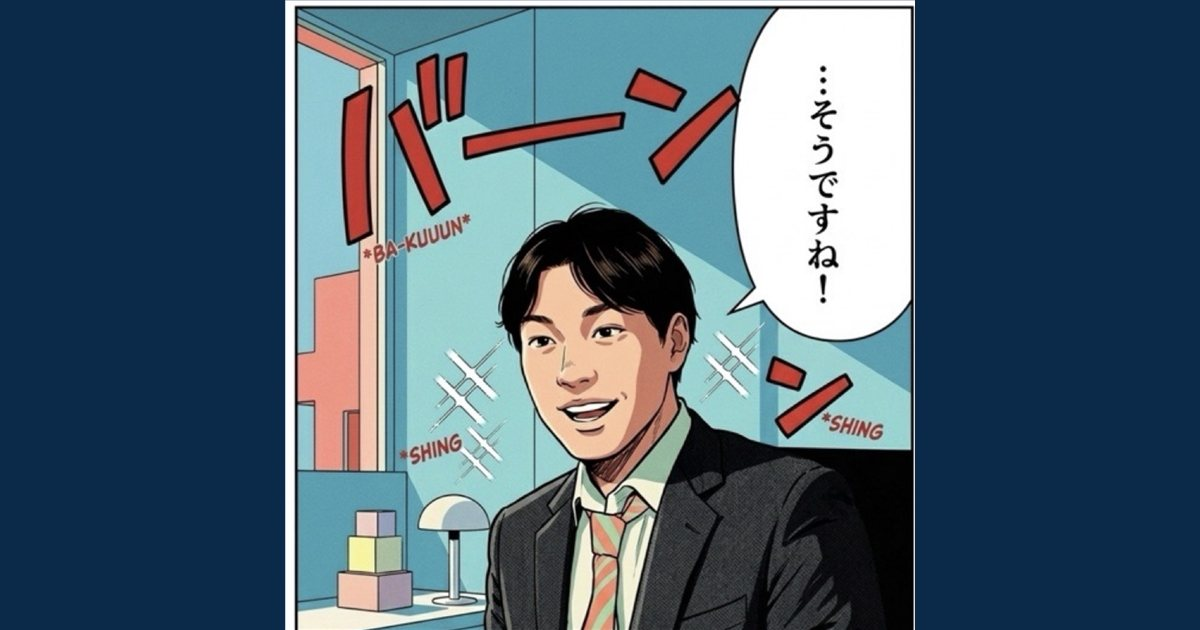
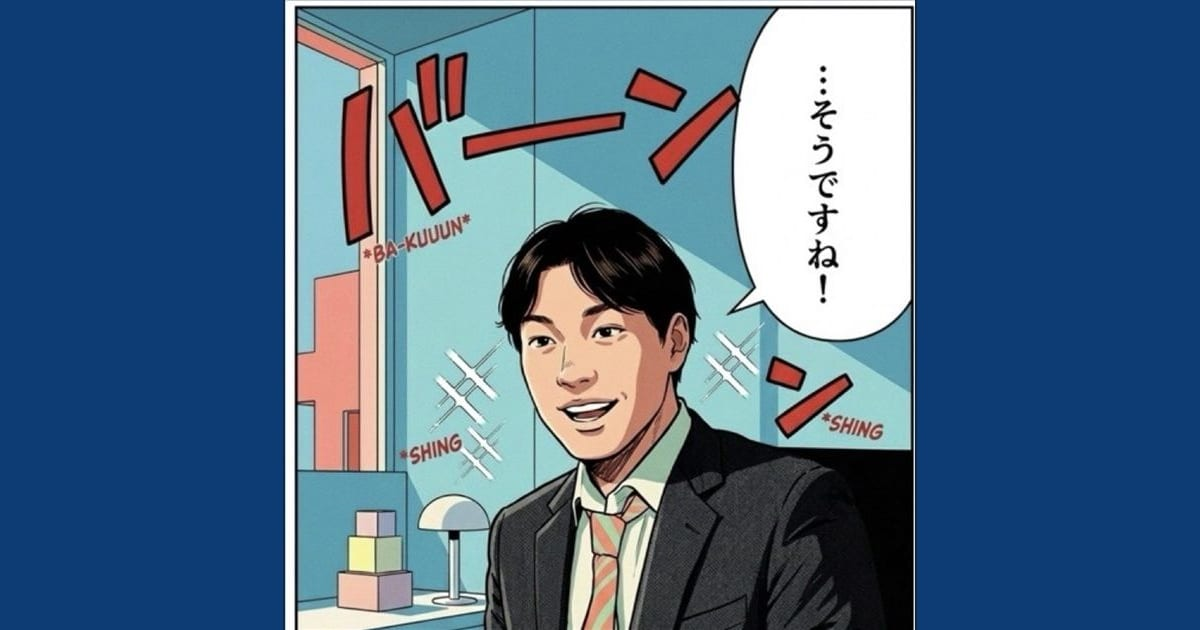
サイトの配色をスカイブルー基調に変更し、全体を明るく
青系の変数（--navy/--blue系/--accent/--ink/--bg）と直書きの青を新パレットに差し替え。
ヒーロー・プロフィール帯・CTA帯・ステータスカードを明るい青のグラデーションに統一し、
青い帯の上で読みにくくなる注釈・マーカー・黄色ラベルの色を調整。
青ボタンはスカイブルー地に濃紺文字に変更。theme-color/manifest/OG画像の余白色も更新。

diff --git a/css/style.css b/css/style.css
@@ -1,23 +1,24 @@
 :root{
-  --navy: #0b2a4a;
-  --blue-deep: #0f3d75;
-  --blue: #1a5fb4;
-  --blue-bright: #2e7dd6;
-  --blue-pale: #eaf2fc;
-  --blue-line: #d7e6f9;
-  --accent: #f2a93b;
-  --accent-deep: #e0891a;
-  --ink: #16232f;
-  --ink-soft: #4a5a6a;
+  --navy: #0d3b73;
+  --blue-deep: #0a56a8;
+  --blue: #0b66c3;
+  --blue-bright: #2f9bff;
+  --blue-pale: #e3f2ff;
+  --blue-line: #c4e2ff;
+  --accent: #ffb02e;
+  --accent-deep: #ec8f10;
+  --ink: #12304d;
+  --ink-soft: #4b5f78;
   --paper: #ffffff;
-  --bg: #f5f8fc;
-  --shadow: 0 12px 30px -14px rgba(15, 61, 117, 0.35);
-  --shadow-sm: 0 4px 14px -6px rgba(15, 61, 117, 0.25);
+  --bg: #f2f9ff;
+  --shadow: 0 12px 30px -14px rgba(13, 59, 115, 0.35);
+  --shadow-sm: 0 4px 14px -6px rgba(13, 59, 115, 0.25);
   --radius-lg: 22px;
   --radius-md: 14px;
   --radius-sm: 8px;
   --serif: "Shippori Mincho", "Noto Serif JP", "Hiragino Mincho ProN", serif;
   --sans: "Zen Kaku Gothic New", "Hiragino Kaku Gothic ProN", "Yu Gothic", sans-serif;
+  --sky-grad: linear-gradient(160deg, #2a86e6 0%, #1566bf 50%, #0d4a94 100%);
   --pop: "M PLUS Rounded 1c", "Zen Kaku Gothic New", sans-serif;
 }
 
@@ -93,7 +94,7 @@ a{color:inherit;text-decoration:none;}
   color:#fff;
   overflow:hidden;
   padding:64px 24px;
-  background-color:#3a2410;
+  background-color:var(--navy);
 }
 /* 料理写真そのもの。PCでは.heroの背面に全面表示、モバイルでは上部の独立エリアに切り替える */
 .hero-photo{
@@ -132,10 +133,10 @@ a{color:inherit;text-decoration:none;}
   padding:36px 32px;
   display:grid;
   gap:22px;
-  background:linear-gradient(135deg, rgba(255,138,46,0.32) 0%, rgba(11,42,74,0.58) 55%, rgba(8,16,28,0.62) 100%);
+  background:linear-gradient(135deg, rgba(47,155,255,0.34) 0%, rgba(13,59,115,0.60) 55%, rgba(8,28,56,0.66) 100%);
   backdrop-filter:blur(14px) saturate(140%);
   -webkit-backdrop-filter:blur(14px) saturate(140%);
-  border:1px solid rgba(255,205,140,0.22);
+  border:1px solid rgba(190,225,255,0.30);
   border-radius:28px;
   box-shadow:0 24px 60px -24px rgba(0,0,0,0.6);
 }
@@ -167,15 +168,15 @@ a{color:inherit;text-decoration:none;}
     border-radius:0;
     border:none;
     box-shadow:none;
-    background:linear-gradient(165deg, #c9660f 0%, var(--navy) 48%, var(--blue-deep) 100%);
+    background:linear-gradient(165deg, #1f78db 0%, #0d56a8 52%, var(--navy) 100%);
     backdrop-filter:none;
     -webkit-backdrop-filter:none;
   }
 }
 .hero-badge{
   display:inline-flex;align-items:center;gap:8px;
-  background:linear-gradient(120deg, rgba(255,255,255,0.24), rgba(255,190,110,0.16));
-  border:1px solid rgba(255,215,150,0.35);
+  background:linear-gradient(120deg, rgba(255,255,255,0.24), rgba(150,210,255,0.18));
+  border:1px solid rgba(200,230,255,0.40);
   padding:7px 16px;border-radius:999px;
   font-size:12.5px;letter-spacing:.04em;font-weight:600;
   width:fit-content;
@@ -191,8 +192,8 @@ a{color:inherit;text-decoration:none;}
   letter-spacing:.01em;
 }
 .hero h1 .accent{
-  color:#ffb238;
-  text-shadow:0 2px 14px rgba(255,140,40,0.65), 0 0 2px rgba(255,255,255,0.4);
+  color:#ffd45a;
+  text-shadow:0 2px 12px rgba(0,40,90,0.55), 0 0 2px rgba(255,255,255,0.4);
 }
 
 /* サイトを開いたら／スワイプ・ホバーで文字自体がぷるんと弾むギミック */
@@ -255,8 +256,8 @@ a{color:inherit;text-decoration:none;}
 .btn-primary:hover{background:var(--accent-deep);}
 .btn-outline{background:rgba(255,255,255,0.06);color:#fff;border-color:rgba(255,255,255,0.5);}
 .btn-outline:hover{background:rgba(255,255,255,0.18);}
-.btn-solid{background:var(--blue);color:#fff;box-shadow:var(--shadow-sm);}
-.btn-solid:hover{background:var(--blue-deep);}
+.btn-solid{background:var(--blue-bright);color:#06284d;box-shadow:var(--shadow-sm);}
+.btn-solid:hover{background:var(--blue-deep);color:#fff;}
 .btn-outline-nav{background:#fff;color:var(--blue-deep);border-color:var(--blue-line);box-shadow:var(--shadow-sm);}
 .btn-outline-nav:hover{background:var(--blue-pale);}
 
@@ -338,13 +339,13 @@ a{color:inherit;text-decoration:none;}
 @media (hover:hover){
   .gap-flipcard:hover .gap-flip-inner{transform:rotateY(180deg);}
 }
-.gap-flipcard:focus-visible{box-shadow:0 0 0 4px rgba(26,95,180,0.35);border-radius:var(--radius-lg);}
+.gap-flipcard:focus-visible{box-shadow:0 0 0 4px rgba(11,102,195,0.35);border-radius:var(--radius-lg);}
 
 .gap-face{
   position:absolute;inset:0;
   backface-visibility:hidden;-webkit-backface-visibility:hidden;
   background:
-    radial-gradient(rgba(15,61,117,0.07) 1px, transparent 1.4px) 0 0/14px 14px,
+    radial-gradient(rgba(11,102,195,0.07) 1px, transparent 1.4px) 0 0/14px 14px,
     var(--paper);
   border-radius:var(--radius-lg);
   padding:32px 30px;
@@ -445,7 +446,7 @@ a{color:inherit;text-decoration:none;}
 .gap-avatar-ring{
   width:84px;height:84px;border-radius:50%;
   overflow:hidden;
-  box-shadow:0 6px 16px -4px rgba(11,42,74,0.45);
+  box-shadow:0 6px 16px -4px rgba(13,59,115,0.45);
 }
 .gap-face-front .gap-avatar-ring{border:4px solid var(--blue-deep);}
 .gap-face-back .gap-avatar-ring{border:4px solid var(--accent);}
@@ -458,7 +459,7 @@ a{color:inherit;text-decoration:none;}
   display:flex;align-items:center;justify-content:center;
   font-size:16px;
   border:2px solid var(--navy);
-  box-shadow:0 3px 8px -2px rgba(11,42,74,0.4);
+  box-shadow:0 3px 8px -2px rgba(13,59,115,0.4);
 }
 
 .gap-face h3{
@@ -513,7 +514,7 @@ a{color:inherit;text-decoration:none;}
   padding:7px 14px;border-radius:999px;cursor:pointer;
   transition:background .15s ease, color .15s ease, border-color .15s ease;
 }
-.area-pill:hover{background:#dcebfb;}
+.area-pill:hover{background:#cfe6ff;}
 .area-pill.active{background:var(--blue);color:#fff;border-color:var(--blue);}
 .area-pill-sub{font-size:12.5px;padding:6px 12px;}
 .area-pill-count{
@@ -546,7 +547,7 @@ a{color:inherit;text-decoration:none;}
 .report-card:hover .thumb img{transform:scale(1.06);}
 .report-card .thumb .date-pill{
   position:absolute;top:12px;left:12px;
-  background:rgba(11,42,74,0.82);color:#fff;
+  background:rgba(13,59,115,0.82);color:#fff;
   font-size:11.5px;font-weight:700;padding:5px 11px;border-radius:999px;
   letter-spacing:.03em;
 }
@@ -697,7 +698,7 @@ a{color:inherit;text-decoration:none;}
 
 .cta-block{
   display:flex;gap:16px;flex-wrap:wrap;align-items:center;
-  background:linear-gradient(135deg, var(--navy), var(--blue-deep));
+  background:var(--sky-grad);
   padding:30px 32px;border-radius:var(--radius-lg);color:#fff;
   justify-content:space-between;
 }
@@ -711,7 +712,7 @@ a{color:inherit;text-decoration:none;}
 /* ---------- Profile page ---------- */
 .profile-hero{
   position:relative;
-  background:linear-gradient(160deg, var(--navy), var(--blue-deep));
+  background:var(--sky-grad);
   color:#fff;padding:64px 0;
 }
 .profile-hero .wrap{display:grid;grid-template-columns:auto 1fr;gap:32px;align-items:center;}
@@ -725,8 +726,11 @@ a{color:inherit;text-decoration:none;}
 }
 .profile-hero .avatar-lg img{width:100%;height:100%;object-fit:cover;object-position:50% 30%;border-radius:50%;display:block;}
 .profile-hero h1{font-family:var(--serif);font-size:clamp(24px,3.6vw,34px);margin:0 0 8px;}
-.profile-hero .role{color:var(--accent);font-weight:700;font-size:14px;letter-spacing:.04em;margin-bottom:10px;}
+.profile-hero .role{color:#fff0b3;font-weight:700;font-size:14px;letter-spacing:.04em;margin-bottom:10px;}
 .profile-hero p{margin:0;color:rgba(255,255,255,0.85);max-width:560px;font-size:14.5px;}
+/* 明るい青の帯の上では、静的なハイライトをやめて白い太字＋JSで引く下線にする */
+.profile-hero .marker,.profile-hero .marker-blue{background:none;color:#fff;font-weight:800;}
+.profile-hero .whisper{color:rgba(255,255,255,0.82);}
 
 .profile-body{padding:56px 0;}
 .profile-section{margin-bottom:40px;}
@@ -782,7 +786,7 @@ a{color:inherit;text-decoration:none;}
   padding:0 3px;font-weight:700;
 }
 .marker-blue{
-  background-image:linear-gradient(120deg, rgba(26,95,180,0.18) 0%, rgba(26,95,180,0.18) 100%);
+  background-image:linear-gradient(120deg, rgba(47,155,255,0.22) 0%, rgba(47,155,255,0.22) 100%);
   background-repeat:no-repeat;background-size:100% 42%;background-position:0 88%;
   padding:0 3px;font-weight:700;color:var(--blue-deep);
 }
@@ -803,7 +807,7 @@ a{color:inherit;text-decoration:none;}
 
 /* ---------- グル書士ステータスカード（RPG風パラメーター） ---------- */
 .status-card{
-  background:linear-gradient(160deg, var(--navy), var(--blue-deep));
+  background:var(--sky-grad);
   border-radius:var(--radius-lg);padding:26px 28px;color:#fff;box-shadow:var(--shadow);
   margin-top:18px;
 }
@@ -816,14 +820,14 @@ a{color:inherit;text-decoration:none;}
 .status-label{font-size:13px;font-weight:700;color:rgba(255,255,255,0.9);}
 .status-bar{height:10px;border-radius:999px;background:rgba(255,255,255,0.15);overflow:hidden;}
 .status-fill{height:100%;border-radius:999px;background:linear-gradient(90deg, var(--accent), var(--accent-deep));}
-.status-fill.over{background:linear-gradient(90deg, #ff8a5c, #e0891a);}
-.status-value{font-size:12.5px;font-weight:800;color:var(--accent);text-align:right;}
+.status-fill.over{background:linear-gradient(90deg, #ff8a5c, #ec8f10);}
+.status-value{font-size:12.5px;font-weight:800;color:#ffe38a;text-align:right;}
 
 /* ---------- misc ---------- */
 .loading, .empty-state{
   text-align:center;color:var(--ink-soft);padding:60px 0;font-size:14.5px;
 }
-.skeleton{background:linear-gradient(90deg,#e9f0fa 25%,#f4f8fd 37%,#e9f0fa 63%);background-size:400% 100%;animation:shimmer 1.4s ease infinite;}
+.skeleton{background:linear-gradient(90deg,#e3f0fd 25%,#f2f9ff 37%,#e3f0fd 63%);background-size:400% 100%;animation:shimmer 1.4s ease infinite;}
 @keyframes shimmer{0%{background-position:100% 0;}100%{background-position:0 0;}}
 
 @media (max-width:820px){
@@ -1012,7 +1016,7 @@ a{color:inherit;text-decoration:none;}
   transition:width 1s cubic-bezier(.22,.85,.28,1);
 }
 .gm-draw-line.gm-line-gold{background:linear-gradient(90deg, var(--accent), #ff7a59);box-shadow:0 0 12px rgba(242,169,59,.6);}
-.gm-draw-line.gm-line-blue{background:linear-gradient(90deg, var(--blue), var(--blue-deep));box-shadow:0 0 10px rgba(26,95,180,.45);}
+.gm-draw-line.gm-line-blue{background:linear-gradient(90deg, #cfe8ff, #ffffff);box-shadow:0 0 10px rgba(255,255,255,.55);}
 .gm-draw-line.gm-line-red{background:linear-gradient(90deg, #e74c3c, #c0392b);box-shadow:0 0 10px rgba(192,57,43,.5);}
 
 /* 5. 肩書タグ（開業ナシ／勤務中／個人受任アリ）：時間差でぽこぽこ登場 */
@@ -1158,7 +1162,7 @@ a{color:inherit;text-decoration:none;}
   display:block;
   background:#fff;
   border:3px solid #fff;
-  box-shadow:0 8px 20px -6px rgba(11,42,74,0.55), 0 0 0 2px var(--navy);
+  box-shadow:0 8px 20px -6px rgba(13,59,115,0.55), 0 0 0 2px var(--navy);
 }
 .rintaro-mascot.bark-play img{animation:rintaroBounce .5s ease;}
 @keyframes rintaroBounce{
@@ -1183,7 +1187,7 @@ a{color:inherit;text-decoration:none;}
   white-space:normal;
   opacity:0;
   transition:opacity .25s ease, transform .25s ease;
-  box-shadow:0 6px 14px -4px rgba(11,42,74,0.4);
+  box-shadow:0 6px 14px -4px rgba(13,59,115,0.4);
 }
 .rintaro-bark::after{
   content:"";

diff --git a/index.html b/index.html
@@ -17,7 +17,7 @@ j=d.createElement(s),dl=l!='dataLayer'?'&l='+l:'';j.async=true;j.src=
 <link rel="icon" type="image/png" sizes="16x16" href="images/favicon-16.png" />
 <link rel="apple-touch-icon" sizes="180x180" href="images/icon-180.png" />
 <link rel="manifest" href="manifest.json" />
-<meta name="theme-color" content="#0b2a4a" />
+<meta name="theme-color" content="#0d3b73" />
 <meta name="apple-mobile-web-app-capable" content="yes" />
 <meta name="apple-mobile-web-app-title" content="本気メシ" />
 

diff --git a/article.html b/article.html
@@ -18,7 +18,7 @@ j=d.createElement(s),dl=l!='dataLayer'?'&l='+l:'';j.async=true;j.src=
 <link rel="icon" type="image/png" sizes="16x16" href="images/favicon-16.png" />
 <link rel="apple-touch-icon" sizes="180x180" href="images/icon-180.png" />
 <link rel="manifest" href="manifest.json" />
-<meta name="theme-color" content="#0b2a4a" />
+<meta name="theme-color" content="#0d3b73" />
 
 <meta property="og:type" content="article" />
 <meta property="og:site_name" content="グル書士の本気メシ" />

diff --git a/contact.html b/contact.html
@@ -18,7 +18,7 @@ j=d.createElement(s),dl=l!='dataLayer'?'&l='+l:'';j.async=true;j.src=
 <link rel="icon" type="image/png" sizes="16x16" href="images/favicon-16.png" />
 <link rel="apple-touch-icon" sizes="180x180" href="images/icon-180.png" />
 <link rel="manifest" href="manifest.json" />
-<meta name="theme-color" content="#0b2a4a" />
+<meta name="theme-color" content="#0d3b73" />
 
 <meta property="og:type" content="website" />
 <meta property="og:site_name" content="グル書士の本気メシ" />

diff --git a/privacy.html b/privacy.html
@@ -18,7 +18,7 @@ j=d.createElement(s),dl=l!='dataLayer'?'&l='+l:'';j.async=true;j.src=
 <link rel="icon" type="image/png" sizes="16x16" href="images/favicon-16.png" />
 <link rel="apple-touch-icon" sizes="180x180" href="images/icon-180.png" />
 <link rel="manifest" href="manifest.json" />
-<meta name="theme-color" content="#0b2a4a" />
+<meta name="theme-color" content="#0d3b73" />
 
 <meta property="og:type" content="website" />
 <meta property="og:site_name" content="グル書士の本気メシ" />

diff --git a/profile.html b/profile.html
@@ -18,7 +18,7 @@ j=d.createElement(s),dl=l!='dataLayer'?'&l='+l:'';j.async=true;j.src=
 <link rel="icon" type="image/png" sizes="16x16" href="images/favicon-16.png" />
 <link rel="apple-touch-icon" sizes="180x180" href="images/icon-180.png" />
 <link rel="manifest" href="manifest.json" />
-<meta name="theme-color" content="#0b2a4a" />
+<meta name="theme-color" content="#0d3b73" />
 
 <meta property="og:type" content="profile" />
 <meta property="og:site_name" content="グル書士の本気メシ" />

diff --git a/sweets-article.html b/sweets-article.html
@@ -18,7 +18,7 @@ j=d.createElement(s),dl=l!='dataLayer'?'&l='+l:'';j.async=true;j.src=
 <link rel="icon" type="image/png" sizes="16x16" href="images/favicon-16.png" />
 <link rel="apple-touch-icon" sizes="180x180" href="images/icon-180.png" />
 <link rel="manifest" href="manifest.json" />
-<meta name="theme-color" content="#0b2a4a" />
+<meta name="theme-color" content="#0d3b73" />
 
 <meta property="og:type" content="article" />
 <meta property="og:site_name" content="グル書士の本気メシ" />

diff --git a/sweets.html b/sweets.html
@@ -18,7 +18,7 @@ j=d.createElement(s),dl=l!='dataLayer'?'&l='+l:'';j.async=true;j.src=
 <link rel="icon" type="image/png" sizes="16x16" href="images/favicon-16.png" />
 <link rel="apple-touch-icon" sizes="180x180" href="images/icon-180.png" />
 <link rel="manifest" href="manifest.json" />
-<meta name="theme-color" content="#0b2a4a" />
+<meta name="theme-color" content="#0d3b73" />
 
 <meta property="og:type" content="website" />
 <meta property="og:site_name" content="グル書士の本気メシ" />

diff --git a/terms.html b/terms.html
@@ -18,7 +18,7 @@ j=d.createElement(s),dl=l!='dataLayer'?'&l='+l:'';j.async=true;j.src=
 <link rel="icon" type="image/png" sizes="16x16" href="images/favicon-16.png" />
 <link rel="apple-touch-icon" sizes="180x180" href="images/icon-180.png" />
 <link rel="manifest" href="manifest.json" />
-<meta name="theme-color" content="#0b2a4a" />
+<meta name="theme-color" content="#0d3b73" />
 
 <meta property="og:type" content="website" />
 <meta property="og:site_name" content="グル書士の本気メシ" />
